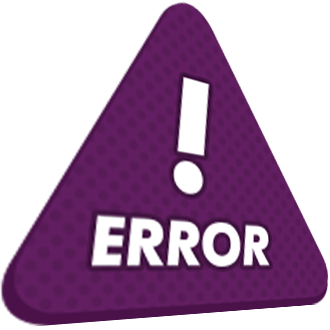
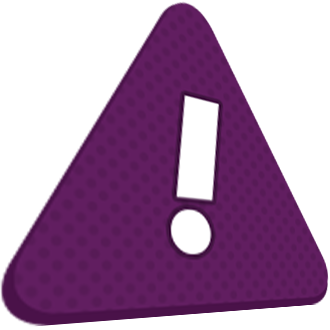
[SRV-533] CSS, UI, add fix

Changed region(s): [[0.2424, 0.2121, 0.8485, 0.8182]]

diff --git a/web/src/main/webapp/assets/mobile/mtvnz/css/mobile.css b/web/src/main/webapp/assets/mobile/mtvnz/css/mobile.css
@@ -76,7 +76,26 @@ body {
 .go-premium-header-title-options {
     font-family: 'FuturaSB-BoldItalic', Arial, sans-serif;
 }
-
+.center-container {
+    text-align: center;
+}
+.header {
+    background-color: #000;
+}
+.header1 {
+    font-family: 'FuturaSB-BoldItalic', Sans, sans-serif;
+    font-size: 1.5em;
+    color: #fff;
+    font-weight: bold;
+    padding: 0.15em;
+}
+.header2 {
+    font-family: 'FuturaSB-BoldItalic', Sans, sans-serif;
+    font-size: 1.1em;
+    color: #fff;
+    font-weight: bold;
+    padding: 0.15em;
+}
 .message {
     font-family: 'NimbusSanTOTLig', Sans, sans-serif;
     text-align: center;
@@ -89,7 +108,11 @@ body {
     font-size: 0.8em;
 }
 
-
+.error-logo {
+    width: 40%;
+    margin: 0 auto;
+    display: block;
+}
 .payment-logo {
     width: 40%;
     margin: 0 auto;

diff --git a/web/src/main/java/mobi/nowtechnologies/server/web/controller/SmsPaymentController.java b/web/src/main/java/mobi/nowtechnologies/server/web/controller/SmsPaymentController.java
@@ -44,7 +44,9 @@ public class SmsPaymentController extends CommonController {
     }
 
     private boolean hasVodafonePaymentType(User user) {
-        return user.getCurrentPaymentDetails() != null && PaymentDetails.VF_PSMS_TYPE.equals(user.getCurrentPaymentDetails().getPaymentType());
+        return user.getCurrentPaymentDetails() != null &&
+                PaymentDetails.VF_PSMS_TYPE.equals(user.getCurrentPaymentDetails().getPaymentType()) &&
+                user.getCurrentPaymentDetails().isActivated();
     }
 
     private boolean hasAwaitingStatus(User user) {

diff --git a/web/src/main/java/mobi/nowtechnologies/server/web/controller/PinController.java b/web/src/main/java/mobi/nowtechnologies/server/web/controller/PinController.java
@@ -48,6 +48,7 @@ public class PinController extends CommonController {
             modelAndView.addObject("maxAttemptsReached", true);
         }
         modelAndView.addObject("phone", phone);
+        modelAndView.addObject("resent", true);
         return modelAndView;
     }
 
